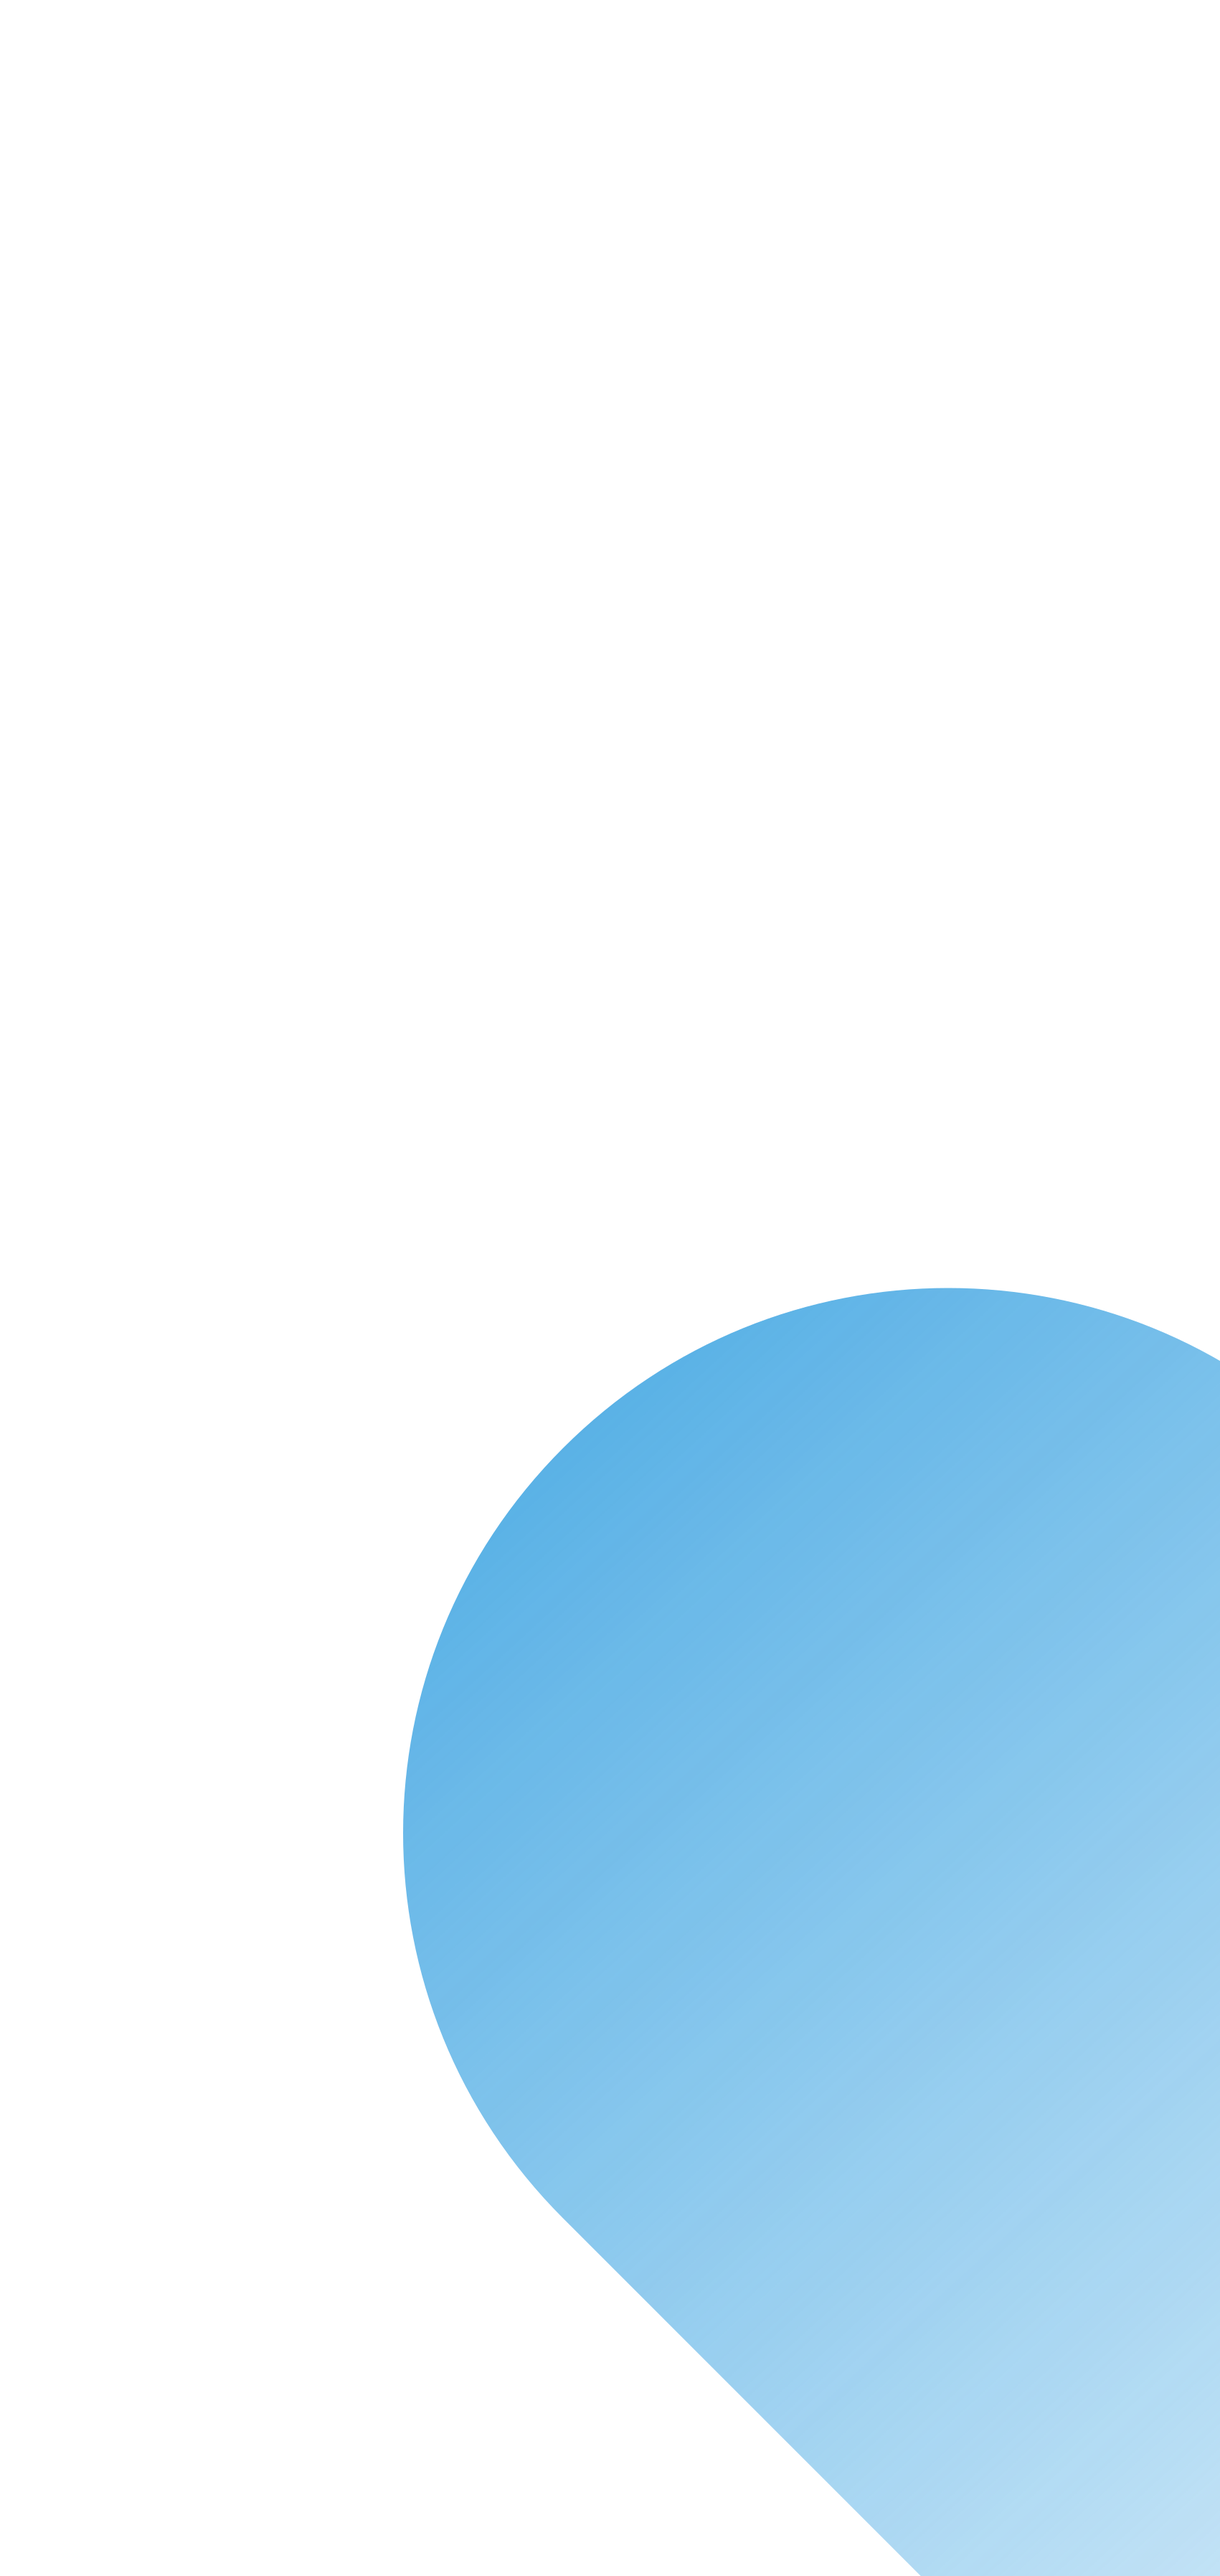
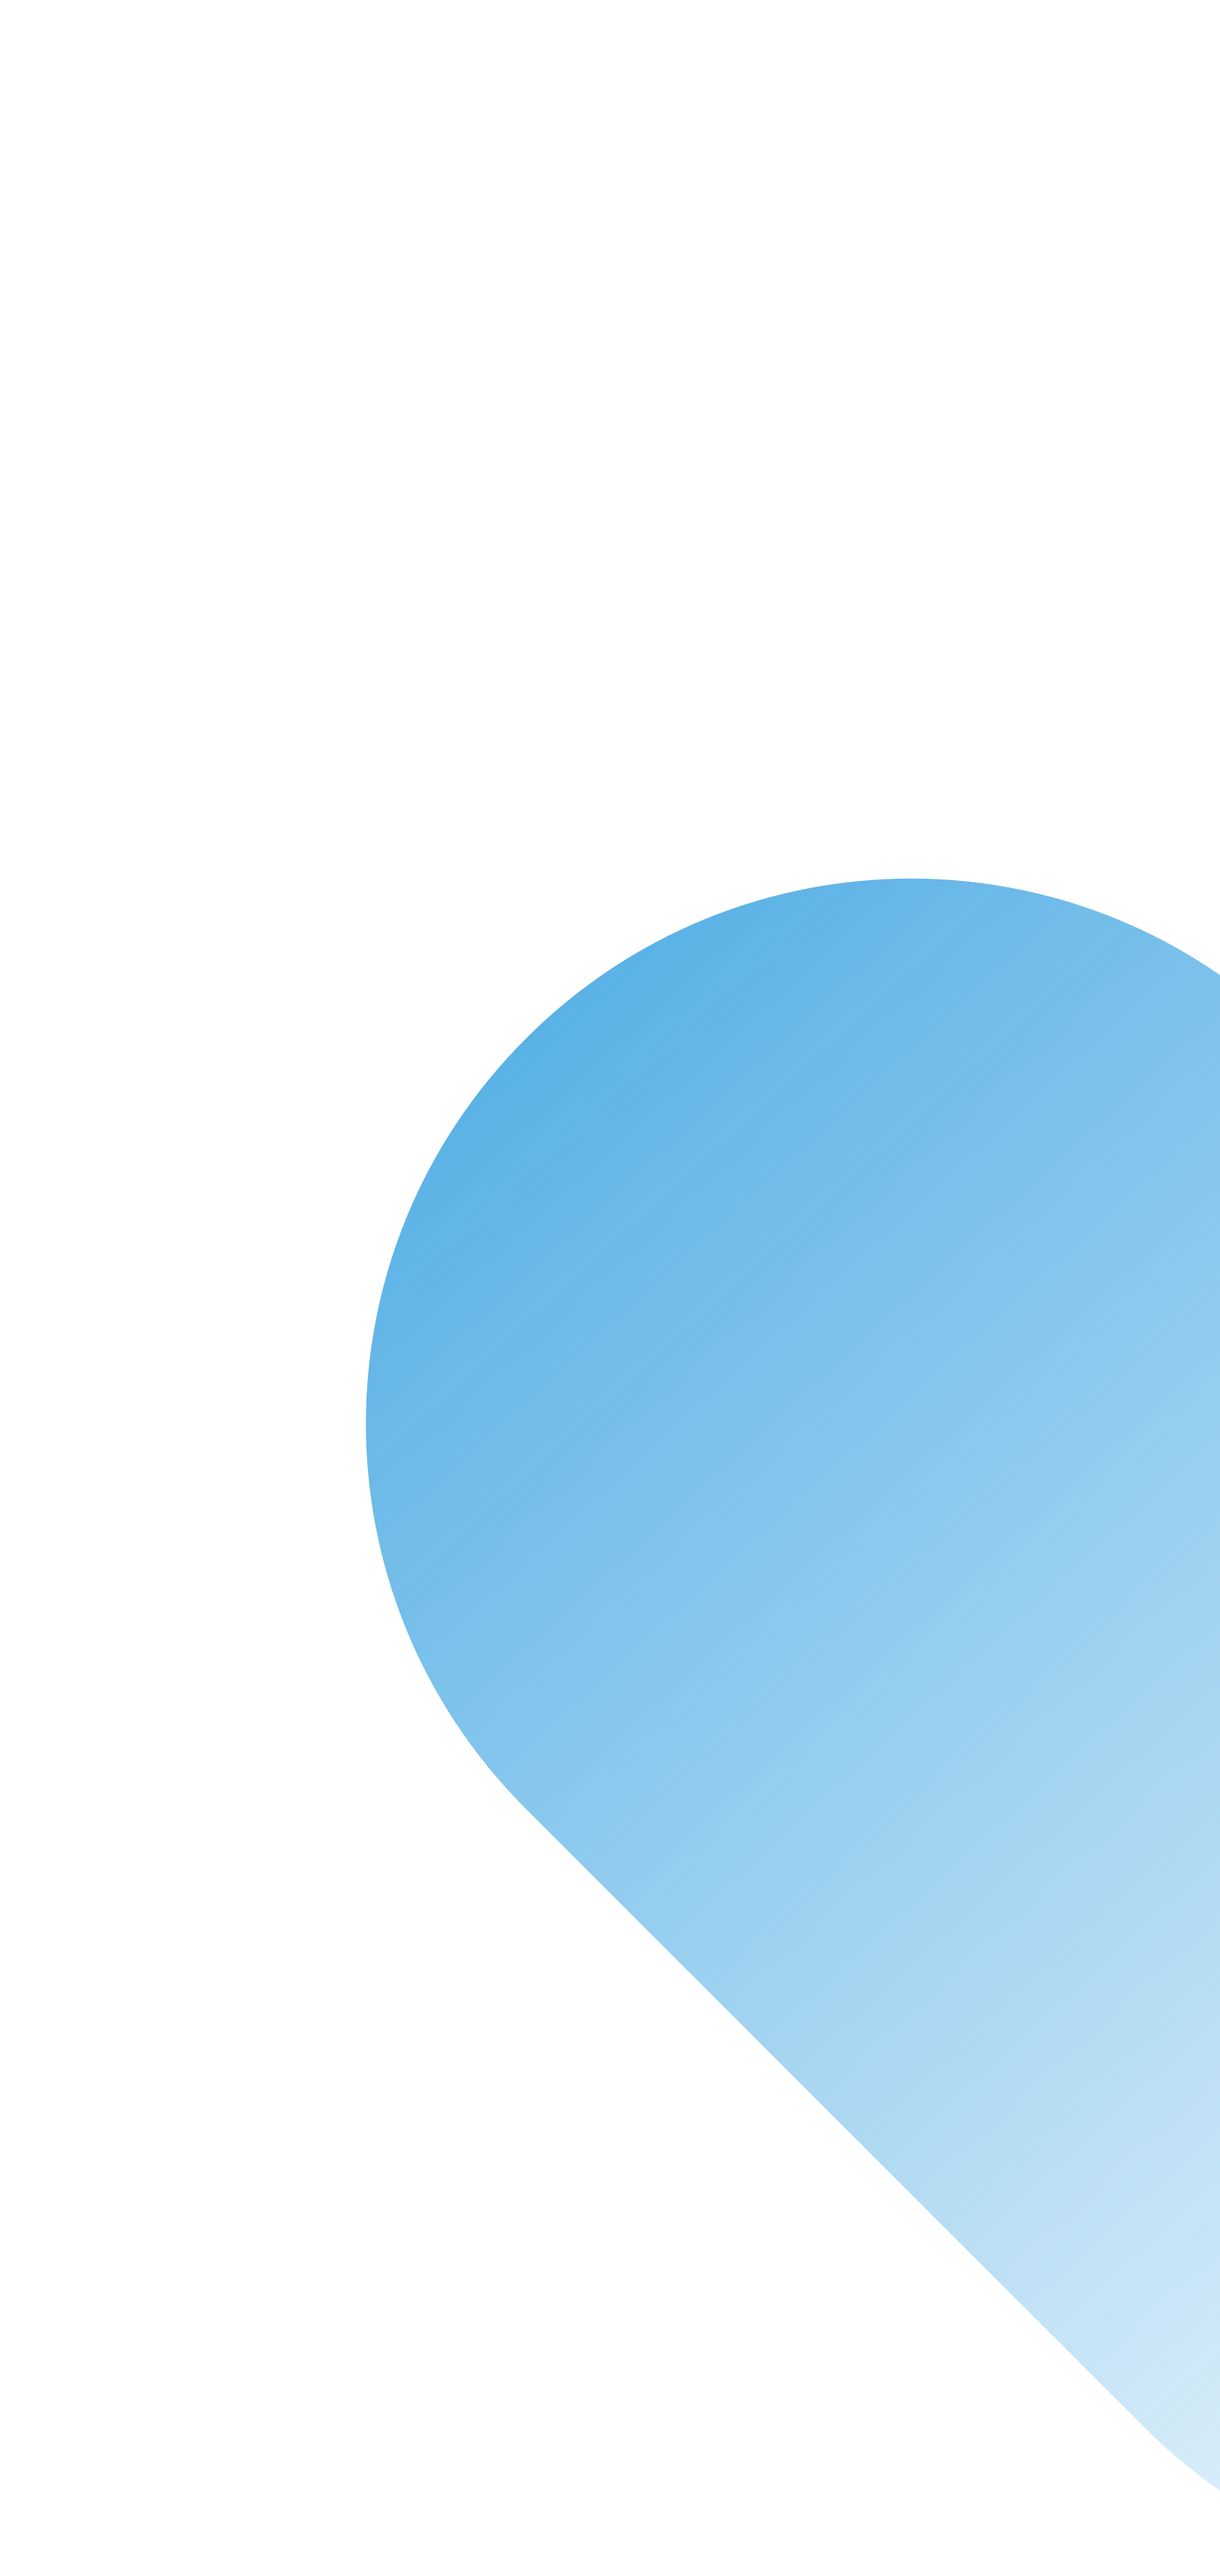
Fix login backdrop positioning and footer links

diff --git a/static/css/main.min.css b/static/css/main.min.css
@@ -1,1 +1,1 @@
-@import url(https://fonts.googleapis.com/css2?family=Alegreya+Sans:wght@500&family=Prompt&family=Roboto&display=swap);:root{--background-variable-opacity:20, 19, 19;--background:#141313;--overlay-variable-opacity:40, 40, 40;--overlay:#282828;--text:#f3e4d8;--accent:#339fe0;--secondary:#48d96c;--success:#43AA8B;--header-height:75px}article,body,footer,html,main{border:0;padding:0;margin:0}header{border:0;margin:0}*{box-sizing:border-box;color:var(--text);font-family:"Alegreya Sans",sans-serif}body,html{min-height:100%;width:100%}body{background-color:var(--background)}h1,h2,h3,h4,h5,h6{font-family:"Roboto",sans-serif}.btn,footer{text-align:center}.btn{background-color:var(--accent);color:var(--background);outline:0;border:0;padding:1em;min-width:5em;height:2.5em;cursor:pointer;transition:all .1s;border-radius:15px;font-family:"Roboto",sans-serif;font-weight:700;text-decoration:none}.btn:hover{transform:scale(110%);opacity:90%;backdrop-filter:blur(25px);box-shadow:0 0 .1em .1em var(--accent)}.btn.danger{background-color:rgba(255,50,50,40%);color:var(--text);height:1em;line-height:0}.btn.danger:hover{box-shadow:none;transform:none}.btn,.btn-circle,.chip{display:flex;justify-content:center;align-items:center}.btn-circle{background-color:var(--accent);border:0;border-radius:50%;width:2em;height:2em;padding:1.5em;cursor:pointer;transition-duration:.1s;opacity:.7}.btn-circle:hover{opacity:1}.btn-circle span{color:var(--background)}.chip{background-color:var(--overlay);padding:5px 25px;border-radius:15px;grid-gap:15px;text-decoration:none;font-weight:700}.chip:hover{opacity:80%;cursor:pointer}.cutout{background:var(--text);background:linear-gradient(90deg,var(--accent) 60%,var(--secondary) 100%);-webkit-background-clip:text;color:transparent}input[type=checkbox]{height:1em;width:1em;accent-color:var(--accent)}.material-symbols-outlined{-webkit-user-select:none;-ms-user-select:none;user-select:none}header,header nav{display:flex;flex-direction:row}header{justify-content:space-between;height:var(--header-height);padding:10px}header a{font-size:125%}header nav{height:100%;justify-content:center;align-items:center;grid-gap:20px;padding:0 15px}header #logo{height:100%;width:auto;cursor:pointer}header #account-pfp{height:2em;width:2em}header #account-pfp img{width:100%;height:100%;border-radius:50%}footer{width:100%;min-height:var(--header-height);padding:5vh;grid-gap:25px;margin-top:5%}footer,footer #footer-links div,footer .branding,form,main{display:flex;flex-direction:column}footer #footer-links{display:grid;grid-template-columns:repeat(3,1fr);width:100%;max-width:800px}footer #footer-links div{grid-gap:1em}footer #footer-links h4{color:var(--accent);text-decoration:underline;font-size:110%;margin-bottom:1em}footer #back-to-top{min-height:3em;min-width:3em;height:3em;width:3em;border-radius:50%}footer #back-to-top span{font-size:2em;color:var(--background)}footer a,header a{text-decoration:none}footer img{height:50px}footer,form,main{align-items:center}main{width:100%;max-width:100%;min-height:calc(100vh - var(--header-height))}form{grid-gap:10px;justify-content:center}form input:not(.btn){text-align:center;height:inherit;font-size:1.25em}form input:not(.btn),form>:not(.btn,label,h1,h2,h3,h4,h5,h6,p,div){border:1px solid var(--text);outline:0;border-radius:25px;padding:10px;background-color:var(--overlay);color:var(--text)}form input.btn{height:inherit;font-size:1em}@media screen and (max-width:450px){footer #footer-links{display:flex;flex-direction:column;width:100%;max-width:100%;scale:110%}}
+@import url(https://fonts.googleapis.com/css2?family=Alegreya+Sans:wght@500&family=Prompt&family=Roboto&display=swap);:root{--background-variable-opacity:20, 19, 19;--background:#141313;--overlay-variable-opacity:40, 40, 40;--overlay:#282828;--text:#f3e4d8;--accent:#339fe0;--secondary:#48d96c;--success:#43AA8B;--header-height:75px}article,body,footer,html,main{border:0;padding:0;margin:0}header{border:0;margin:0}*{box-sizing:border-box;color:var(--text);font-family:"Alegreya Sans",sans-serif}body,html{min-height:100%;width:100%}body{background-color:var(--background)}h1,h2,h3,h4,h5,h6{font-family:"Roboto",sans-serif}.btn,footer{text-align:center}.btn{background-color:var(--accent);color:var(--background);outline:0;border:0;padding:1em;min-width:5em;height:2.5em;cursor:pointer;transition:all .1s;border-radius:15px;font-family:"Roboto",sans-serif;font-weight:700;text-decoration:none}.btn:hover{transform:scale(110%);opacity:90%;backdrop-filter:blur(25px);box-shadow:0 0 .1em .1em var(--accent)}.btn.danger{background-color:rgba(255,50,50,40%);color:var(--text);height:1em;line-height:0}.btn.danger:hover{box-shadow:none;transform:none}.btn,.btn-circle,.chip{display:flex;justify-content:center;align-items:center}.btn-circle{background-color:var(--accent);border:0;border-radius:50%;width:2em;height:2em;padding:1.5em;cursor:pointer;transition-duration:.1s;opacity:.7}.btn-circle:hover{opacity:1}.btn-circle span{color:var(--background)}.chip{background-color:var(--overlay);padding:5px 25px;border-radius:15px;grid-gap:15px;text-decoration:none;font-weight:700}.chip:hover{opacity:80%;cursor:pointer}.cutout{background:var(--text);background:linear-gradient(90deg,var(--accent) 60%,var(--secondary) 100%);-webkit-background-clip:text;color:transparent}input[type=checkbox]{height:1em;width:1em;accent-color:var(--accent)}.material-symbols-outlined{-webkit-user-select:none;-ms-user-select:none;user-select:none}header,header nav{display:flex;flex-direction:row}header{justify-content:space-between;height:var(--header-height);padding:10px}header a{font-size:125%}header nav{height:100%;justify-content:center;align-items:center;grid-gap:20px;padding:0 15px}header #logo{height:100%;width:auto;cursor:pointer}header #account-pfp{height:2em;width:2em}header #account-pfp img{width:100%;height:100%;border-radius:50%}footer{width:100%;min-height:var(--header-height);padding:5vh;grid-gap:25px;margin-top:5%}footer,footer #footer-links div,footer .branding,form,main{display:flex;flex-direction:column}footer #footer-links{display:grid;grid-template-columns:repeat(3,1fr);width:100%;max-width:800px}footer #footer-links div{grid-gap:1em}footer #footer-links h4{color:var(--accent);font-size:1.5em;margin-bottom:1em}footer #footer-links a{text-decoration:underline}footer #back-to-top{min-height:3em;min-width:3em;height:3em;width:3em;border-radius:50%}footer #back-to-top span{font-size:2em;color:var(--background)}footer a,header a{text-decoration:none}footer img{height:50px}footer,form,main{align-items:center}main{width:100%;max-width:100%;min-height:calc(100vh - var(--header-height))}form{grid-gap:10px;justify-content:center}form input:not(.btn){text-align:center;height:inherit;font-size:1.25em}form input:not(.btn),form>:not(.btn,label,h1,h2,h3,h4,h5,h6,p,div){border:1px solid var(--text);outline:0;border-radius:25px;padding:10px;background-color:var(--overlay);color:var(--text)}form input.btn{height:inherit;font-size:1em}@media screen and (max-width:450px){footer #footer-links{display:flex;flex-direction:column;width:100%;max-width:100%;scale:110%}}

diff --git a/static/css/auth.min.css b/static/css/auth.min.css
@@ -1,1 +1,1 @@
-body{background-image:url(/static/images/login-hash.png);background-repeat:no-repeat;background-size:cover}form{background-color:rgba(var(--overlay-variable-opacity),.7);padding:5% 2%;border-radius:25px;width:75%;max-width:750px;backdrop-filter:blur(10px);-webkit-backdrop-filter:blur(10px);grid-gap:15px}form .welcome{display:flex;flex-direction:column;justify-content:center;align-items:center}form .welcome *{margin:10px 0}form input:not(.btn){width:50%;min-width:200px}form input.btn{font-size:1em;width:25%}#social_logins{display:flex;flex-direction:column;grid-gap:10px;margin-top:25px}#social_logins *{margin:0}#social_logins #social_buttons{display:flex;flex-direction:row;grid-gap:25px;align-items:center;justify-content:center}#social_logins #social_buttons img{height:50px;width:auto;border-radius:5px;transition-duration:.05s}#social_logins #social_buttons img:hover{cursor:pointer;scale:110%}#disclaimer{font-size:75%;text-align:center;width:50%}footer,header{backdrop-filter:blur(5px);-webkit-backdrop-filter:blur(5px)}header{background-color:rgba(var(--background-variable-opacity),.5);margin-bottom:5%}footer{background-color:rgba(var(--background-variable-opacity),.9)}@media screen and (max-width:450px){form{width:100%;height:100%;border-radius:0;background-color:transparent;backdrop-filter:none;-webkit-backdrop-filter:none}body{background-image:url(/static/images/login-circles-mobile.svg)}}
+body{background-image:url(/static/images/login-hash.png);background-repeat:no-repeat;background-size:cover;background-position:center}form{background-color:rgba(var(--overlay-variable-opacity),.7);padding:5% 2%;border-radius:25px;width:75%;max-width:750px;backdrop-filter:blur(10px);-webkit-backdrop-filter:blur(10px);grid-gap:15px}form .welcome{display:flex;flex-direction:column;justify-content:center;align-items:center}form .welcome *{margin:10px 0}form input:not(.btn){width:50%;min-width:200px}form input.btn{font-size:1em;width:25%}#social_logins{display:flex;flex-direction:column;grid-gap:10px;margin-top:25px}#social_logins *{margin:0}#social_logins #social_buttons{display:flex;flex-direction:row;grid-gap:25px;align-items:center;justify-content:center}#social_logins #social_buttons img{height:50px;width:auto;border-radius:5px;transition-duration:.05s}#social_logins #social_buttons img:hover{cursor:pointer;scale:110%}#disclaimer{font-size:75%;text-align:center;width:50%}footer,header{backdrop-filter:blur(5px);-webkit-backdrop-filter:blur(5px)}header{background-color:rgba(var(--background-variable-opacity),.5);margin-bottom:5%}footer{background-color:rgba(var(--background-variable-opacity),.9)}@media screen and (max-width:450px){form{width:100%;height:100%;border-radius:0;background-color:transparent;backdrop-filter:none;-webkit-backdrop-filter:none}body{background-image:url(/static/images/login-circles-mobile.svg)}}

diff --git a/templates/components/footer.html b/templates/components/footer.html
@@ -19,7 +19,7 @@
         </div>
     </div>
     <div id="footer-disclaimers">
-        <p style="font-size: .7em;">Routine server maintenance will occur daily at 5:00 AM.</p>
+        <p style="font-size: .7em;">Routine server maintenance will occur daily at 5:00 AM EST.</p>
     <p style="font-size: .7em;">By continuing to access this website, you accept and agree to be bound and abide by the hashcards.net <a href="/terms">Terms of Use</a> and <a href="/privacy-policy">Privacy Policy</a>.</p>
     </div>
     <a class="btn" href="#top" id="back-to-top" title="Back to top"><span class="material-symbols-outlined">move_up</span></a>

diff --git a/static/css/main.css b/static/css/main.css
@@ -238,9 +238,12 @@ footer #footer-links div {
 
 footer #footer-links h4 {
     color: var(--accent);
-    text-decoration: underline;
-    font-size: 110%;
+    font-size: 1.5em;
     margin-bottom: 1em;
+}
+
+footer #footer-links a {
+    text-decoration: underline;
 }
 
 footer #back-to-top {

diff --git a/static/css/auth.css b/static/css/auth.css
@@ -2,6 +2,7 @@ body {
     background-image: url("/static/images/login-hash.png");
     background-repeat: no-repeat;
     background-size: cover;
+    background-position: center;
 }
 
 form {
